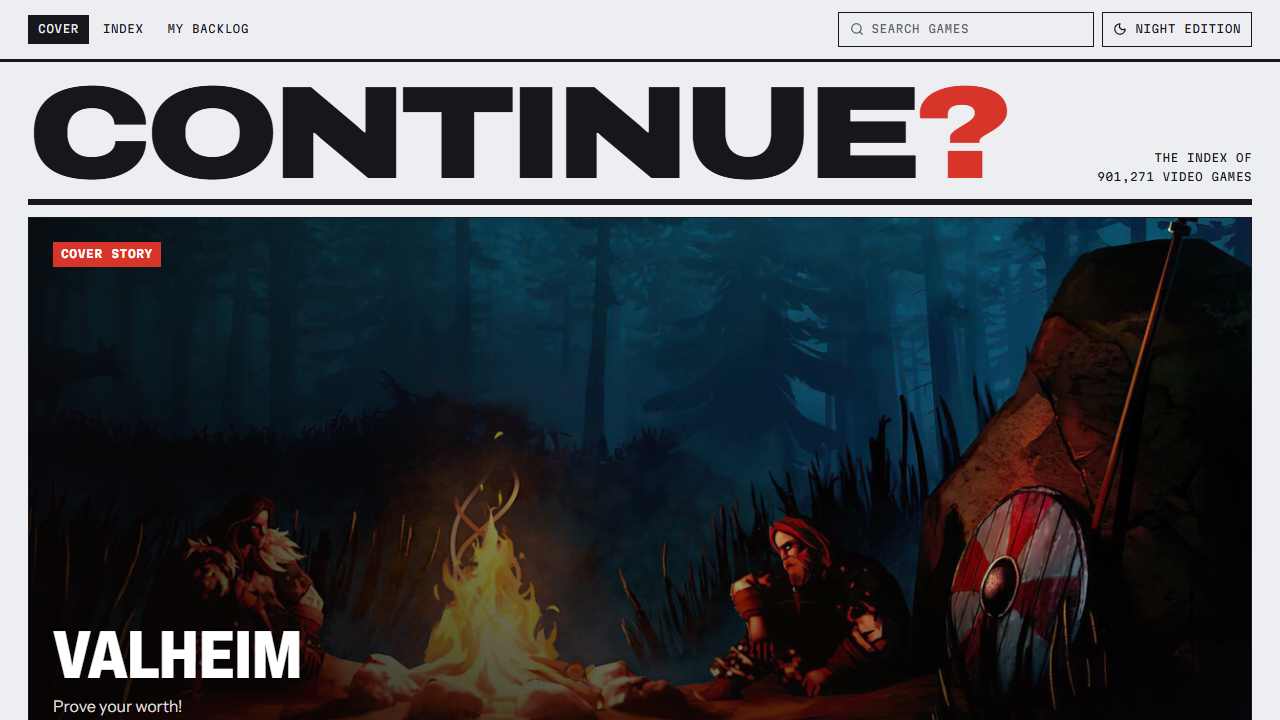
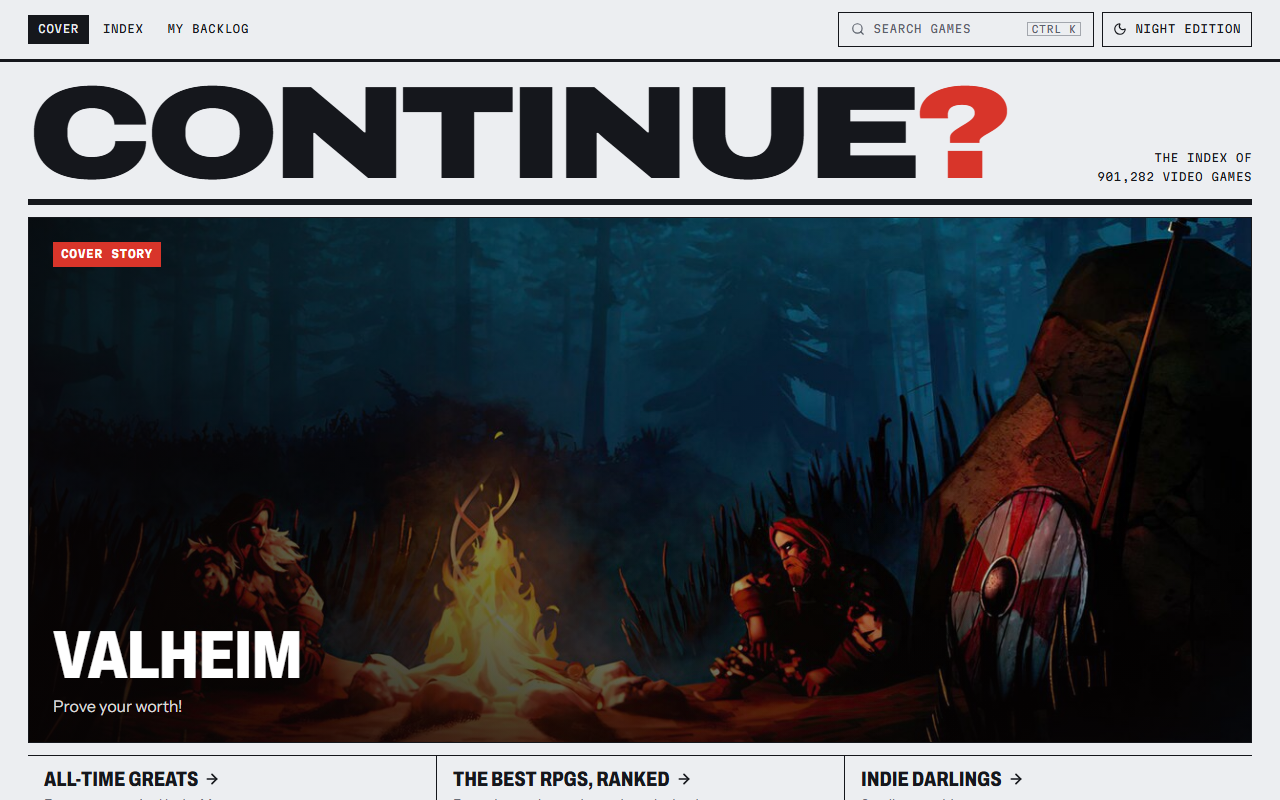
rewrite readme with new features, testing and screenshots

diff --git a/README.md b/README.md
@@ -1,6 +1,9 @@
 # Continue?
 
-The video game index. Browse over 900,000 games, compare them by score, and keep a backlog of what to play next.
+[![CI](https://github.com/y3rsss/continue-gms/actions/workflows/ci.yml/badge.svg)](https://github.com/y3rsss/continue-gms/actions/workflows/ci.yml)
+[![Deploy](https://img.shields.io/github/deployments/y3rsss/continue-gms/Production?label=deploy&logo=vercel)](https://continue-gms.vercel.app)
+
+The video game index. Browse over 900,000 games, compare scores and prices, and keep a backlog of what to play next.
 
 **Live:** [continue-gms.vercel.app](https://continue-gms.vercel.app)
 
@@ -10,23 +13,49 @@ The video game index. Browse over 900,000 games, compare them by score, and keep
 
 - **Cover page** with a trending cover story and rows of trending, new and all-time great games
 - **Index** of every game as a ranked list or a grid, filtered by genre, platform and search. Filters live in the URL, so any view can be bookmarked or shared.
-- **Game pages** printed in a spot color taken from the game's cover art, with details, screenshots and similar games
-- **Backlog** to mark games as Want to play, Playing, Finished or Dropped
+- **Instant search** with <kbd>Ctrl</kbd> <kbd>K</kbd> from anywhere. It forgives typos ("wither" finds The Witcher), understands initials ("gta", "cod") and ranks by how well the name matches and how popular the game is.
+- **Game pages** printed in a spot color taken from the game's cover art, with details, similar games and a full-screen gallery of screenshots and trailers
+- **Where to buy** with links to every store, live PC prices, discounts, the best deal and the lowest price ever
+- **Backlog** to stamp games as Want to play, Playing, Finished or Dropped
+- **Link previews** that show the game's cover, score and best price when a link is shared in Telegram, Discord, Slack and other apps
 - **Day and night editions** (light and dark mode)
 
 ![A game page](docs/game.png)
 
+| Instant search                     | Gallery and trailers                                |
+| ---------------------------------- | --------------------------------------------------- |
+| ![Instant search](docs/search.png) | ![Gallery with a trailer playing](docs/gallery.png) |
+
+## How it works
+
+```mermaid
+flowchart LR
+  browser[Browser] -->|/api/*| api[Vercel Functions]
+  bots[Link preview bots] -->|/games/:slug| share["/api/share"]
+  share --> api
+  api --> rawg[(RAWG)]
+  api --> cheapshark[(CheapShark)]
+```
+
+The browser never talks to the game data providers directly. It calls the app's own `/api` routes, which:
+
+- add the API key on the server, where nobody can read it
+- validate input and answer bad requests with clear errors
+- reshape every response into the app's own types, so switching data providers only touches the server
+- cache responses on Vercel's CDN
+
+Link preview bots (they don't run JavaScript) are routed to a small server-rendered page with the game's preview tags. Everyone else gets the normal app.
+
 ## Tech stack
 
-| Area             | Tools                                                                |
-| ---------------- | -------------------------------------------------------------------- |
-| App              | React 19, TypeScript, Vite 8                                         |
-| Styling          | Tailwind CSS 4, shadcn/ui on Radix                                   |
-| Data and routing | TanStack Query, React Router 8                                       |
-| API              | Vercel Functions in front of the [RAWG API](https://rawg.io/apidocs) |
-| Tooling          | ESLint 10, typescript-eslint                                         |
-
-The browser never talks to RAWG directly. The app calls its own `/api` routes, which add the API key on the server, validate input, reshape the responses into the app's own types and cache them on Vercel's CDN.
+| Area             | Tools                                                                                                          |
+| ---------------- | -------------------------------------------------------------------------------------------------------------- |
+| App              | React 19, TypeScript, Vite 8                                                                                   |
+| Styling          | Tailwind CSS 4, shadcn/ui on Radix                                                                             |
+| Data and routing | TanStack Query, React Router 8                                                                                 |
+| API              | Vercel Functions in front of [RAWG](https://rawg.io/apidocs) and [CheapShark](https://apidocs.cheapshark.com/) |
+| Testing          | Vitest, Playwright, GitHub Actions                                                                             |
+| Tooling          | ESLint, typescript-eslint, Prettier                                                                            |
 
 ## Running locally
 
@@ -38,27 +67,39 @@ cp .env.example .env.local   # then set RAWG_API_KEY
 npm run dev
 ```
 
-The dev server runs the `/api` routes too, so local behaves like production.
+The dev server runs the `/api` routes too, and reloads them when you edit them, so local behaves like production.
 
-| Script            | What it does                       |
-| ----------------- | ---------------------------------- |
-| `npm run dev`     | Start the dev server               |
-| `npm run build`   | Typecheck and build for production |
-| `npm run preview` | Serve the production build locally |
-| `npm run lint`    | Lint the project                   |
+| Script               | What it does                            |
+| -------------------- | --------------------------------------- |
+| `npm run dev`        | Start the dev server                    |
+| `npm run build`      | Typecheck and build for production      |
+| `npm run preview`    | Serve the production build locally      |
+| `npm run lint`       | Lint the project                        |
+| `npm run format`     | Format every file with Prettier         |
+| `npm test`           | Run the unit tests                      |
+| `npm run test:watch` | Run the unit tests again on every save  |
+| `npm run test:e2e`   | Build the app and run the browser tests |
+
+## Testing
+
+- **Unit tests** (Vitest) sit next to the code they test, as `*.test.ts`. They cover the search ranking, store prices and offers, link preview pages, input validation of every endpoint, and the formatting helpers. Calls to RAWG and CheapShark are faked, so the tests never touch the network.
+- **End-to-end tests** (Playwright) live in [`e2e/`](e2e) and click through the real app in a browser: search, game pages, the gallery, the backlog, filters, dark mode and phone-sized screens. They answer `/api` requests with recorded responses from [`e2e/fixtures`](e2e/fixtures), so they run offline and don't need an API key.
+- **CI** (GitHub Actions) runs the format check, lint, typecheck, unit tests, build and end-to-end tests on every push and pull request.
 
 ## Project structure
 
 ```text
-api/          Vercel functions for games, game details, genres and platforms
-shared/       Types used by both the API and the app
+api/            Vercel functions: games, game, genres, platforms, stores, search, share
+  _lib/         Shared server code: RAWG and CheapShark clients, search, offers
+shared/         Types and helpers used by both the API and the app
 src/
-  pages/      Cover, index, game and backlog pages
-  components/ UI components
-  hooks/      Data fetching, URL filters and the backlog
-  lib/        Formatting, spot colors and status styles
+  pages/        Cover, index, game, backlog and error pages
+  components/   UI components
+  hooks/        Data fetching, URL filters, backlog, keyboard shortcuts
+  lib/          Formatting, spot colors, status styles
+e2e/            Browser tests and recorded API responses
 ```
 
 ## Credits
 
-Game data and images come from [RAWG](https://rawg.io).
+Game data and images come from [RAWG](https://rawg.io). Prices come from [CheapShark](https://www.cheapshark.com).
